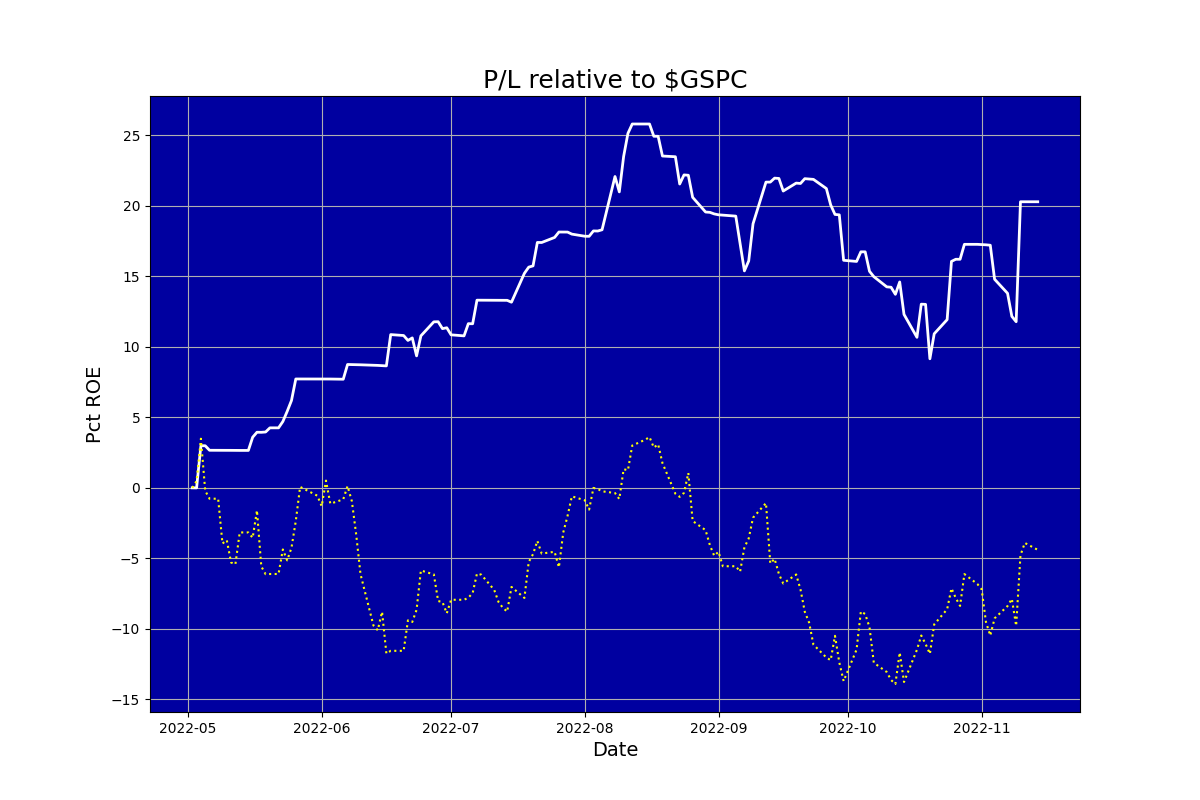
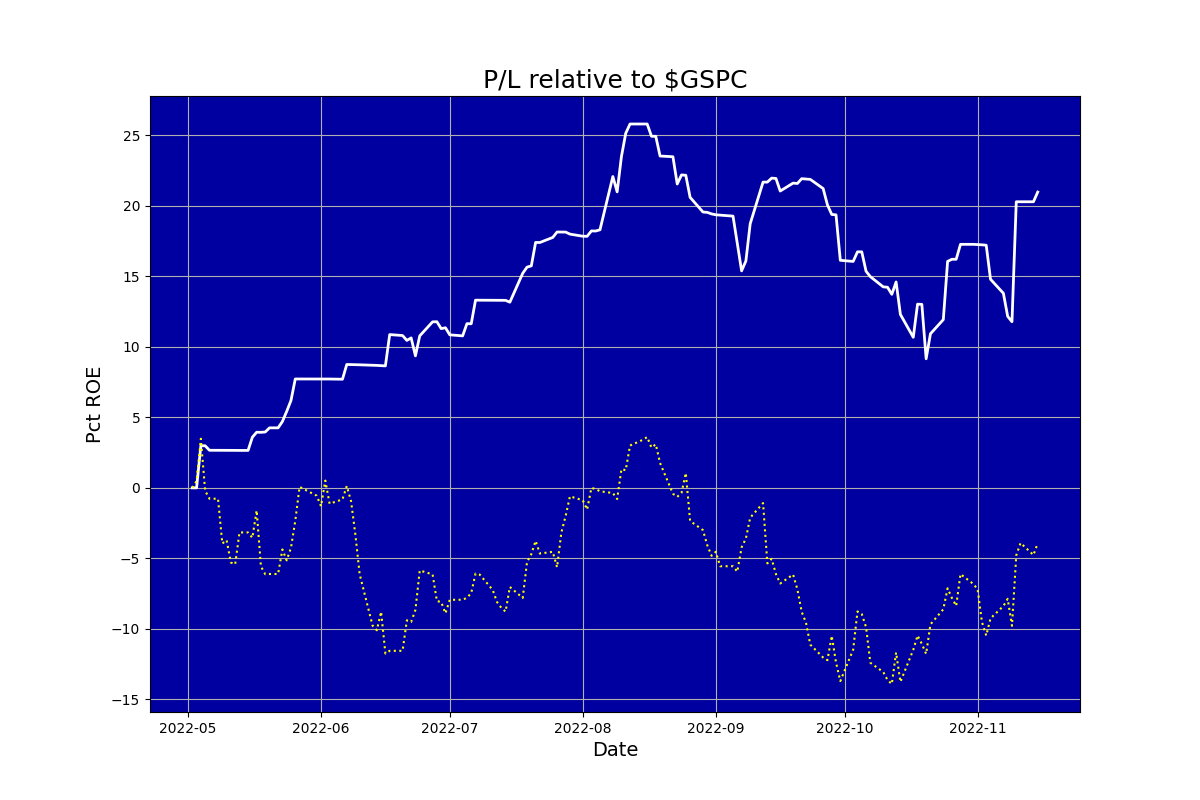
Updated

diff --git a/ig_report.html b/ig_report.html
@@ -1,1 +1,1 @@
-<html><body><center><h1>Auriel (never knowingly overbought)</h1></center><table cols=2><tr><td><img src=ig_pl.png></td><td><table cols=2><tr><td colspan=2><b><br>Snapshot</b></td></tr><tr><td>Last updated:&nbsp;&nbsp;&nbsp;</td><td>2022-11-14 15:56</td></tr><tr><td>Funds:&nbsp;&nbsp;&nbsp;</td><td>13897.89</td></tr><tr><td>Margin:&nbsp;&nbsp;&nbsp;</td><td>0.17</td></tr><tr><td>Cushion:&nbsp;&nbsp;&nbsp;</td><td>-2952.60</td></tr><tr><td>Last closed trade:&nbsp;&nbsp;&nbsp;</td><td>2022-11-10</td></tr><tr><td colspan=2><b><br>Positions</b></td></tr><tr><td>Mean days to new high:&nbsp;&nbsp;&nbsp;</td><td>13.01</td></tr><tr><td colspan=2><b><br>Trades</b></td></tr><tr><td>Traded days:&nbsp;&nbsp;&nbsp;</td><td>143</td></tr><tr><td>Pct profitable days:&nbsp;&nbsp;&nbsp;</td><td>32.87</td></tr><tr><td>Pct days beat S&P:&nbsp;&nbsp;&nbsp;</td><td>57.66</td></tr><tr><td>Pct profitable months:&nbsp;&nbsp;&nbsp;</td><td>85.71</td></tr><tr><td colspan=2><b><br>Performance</b></td></tr><tr><td>Pct median monthly ROE:&nbsp;&nbsp;&nbsp;</td><td>3.02</td></tr><tr><td>Pct annualised ROE:&nbsp;&nbsp;&nbsp;</td><td>35.48</td></tr><tr><td colspan=2><b><br>Risk</b></td></tr><tr><td>Volatility pct:&nbsp;&nbsp;&nbsp;</td><td>20.71</td></tr><tr><td>Benchmark volatility pct:&nbsp;&nbsp;&nbsp;</td><td>26.27</td></tr><tr><td>Sharpe ratio (RFR 2.5%):&nbsp;&nbsp;&nbsp;</td><td>1.64</td></tr><tr><td>Calmar ratio:&nbsp;&nbsp;&nbsp;</td><td>2.21</td></tr><tr><td>Worst drawdown pct:&nbsp;&nbsp;&nbsp;</td><td>-0.16</td></tr><tr><td>Recovery days from worst drawdown:&nbsp;&nbsp;&nbsp;</td><td>9999.00</td></tr><tr><td>Beat benchmark +ve periods pct:&nbsp;&nbsp;&nbsp;</td><td>0.75</td></tr><tr><td>Beat benchmark -ve periods pct:&nbsp;&nbsp;&nbsp;</td><td>0.90</td></tr><tr><td>Correlation with benchmark:&nbsp;&nbsp;&nbsp;</td><td>0.39</td></tr></table></td></tr></table></body></html>
+<html><body><center><h1>Auriel (never knowingly overbought)</h1></center><table cols=2><tr><td><img src=ig_pl.png></td><td><table cols=2><tr><td colspan=2><b><br>Snapshot</b></td></tr><tr><td>Last updated:&nbsp;&nbsp;&nbsp;</td><td>2022-11-15 15:56</td></tr><tr><td>Funds:&nbsp;&nbsp;&nbsp;</td><td>13993.57</td></tr><tr><td>Margin:&nbsp;&nbsp;&nbsp;</td><td>0.11</td></tr><tr><td>Cushion:&nbsp;&nbsp;&nbsp;</td><td>-2885.24</td></tr><tr><td>Last closed trade:&nbsp;&nbsp;&nbsp;</td><td>2022-11-15</td></tr><tr><td colspan=2><b><br>Positions</b></td></tr><tr><td>Mean days to new high:&nbsp;&nbsp;&nbsp;</td><td>13.04</td></tr><tr><td colspan=2><b><br>Trades</b></td></tr><tr><td>Traded days:&nbsp;&nbsp;&nbsp;</td><td>144</td></tr><tr><td>Pct profitable days:&nbsp;&nbsp;&nbsp;</td><td>33.33</td></tr><tr><td>Pct days beat S&P:&nbsp;&nbsp;&nbsp;</td><td>57.25</td></tr><tr><td>Pct profitable months:&nbsp;&nbsp;&nbsp;</td><td>85.71</td></tr><tr><td colspan=2><b><br>Performance</b></td></tr><tr><td>Pct median monthly ROE:&nbsp;&nbsp;&nbsp;</td><td>3.63</td></tr><tr><td>Pct annualised ROE:&nbsp;&nbsp;&nbsp;</td><td>36.43</td></tr><tr><td colspan=2><b><br>Risk</b></td></tr><tr><td>Volatility pct:&nbsp;&nbsp;&nbsp;</td><td>20.65</td></tr><tr><td>Benchmark volatility pct:&nbsp;&nbsp;&nbsp;</td><td>26.24</td></tr><tr><td>Sharpe ratio (RFR 2.5%):&nbsp;&nbsp;&nbsp;</td><td>1.69</td></tr><tr><td>Calmar ratio:&nbsp;&nbsp;&nbsp;</td><td>2.27</td></tr><tr><td>Worst drawdown pct:&nbsp;&nbsp;&nbsp;</td><td>-0.16</td></tr><tr><td>Recovery days from worst drawdown:&nbsp;&nbsp;&nbsp;</td><td>9999.00</td></tr><tr><td>Beat benchmark +ve periods pct:&nbsp;&nbsp;&nbsp;</td><td>0.75</td></tr><tr><td>Beat benchmark -ve periods pct:&nbsp;&nbsp;&nbsp;</td><td>0.90</td></tr><tr><td>Correlation with benchmark:&nbsp;&nbsp;&nbsp;</td><td>0.39</td></tr></table></td></tr></table></body></html>
